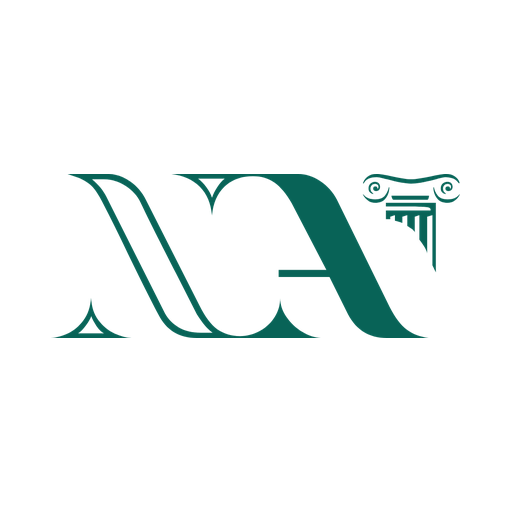
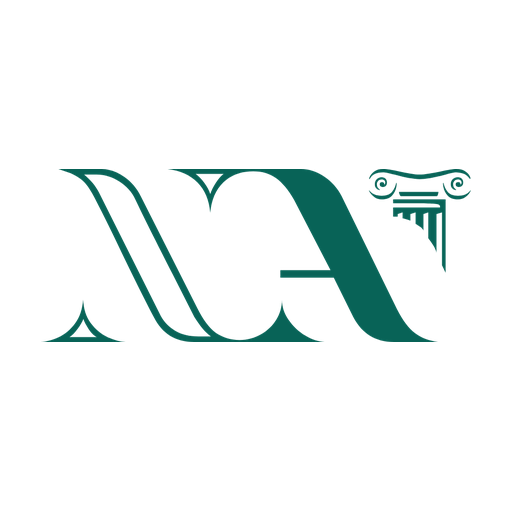
PWA: nome "Portal do Aluno - Nova Acrópole" e símbolo maior no ícone do celular

diff --git a/src/app/manifest.ts b/src/app/manifest.ts
@@ -9,7 +9,8 @@ export default function manifest(): MetadataRoute.Manifest {
   return {
     id: "/portal",
     name: "Portal do Aluno - Nova Acrópole",
-    short_name: "Portal NA",
+    // Nome sob o ícone na tela do celular (pedido do usuário 2026-10-22); o launcher pode cortar nomes longos.
+    short_name: "Portal do Aluno - Nova Acrópole",
     description: "Contribuição, carteira Fortuna, agenda e jornada na Nova Acrópole.",
     lang: "pt-BR",
     start_url: "/portal",
@@ -20,14 +21,14 @@ export default function manifest(): MetadataRoute.Manifest {
     theme_color: "#086357",
     icons: [
       // Símbolo oficial (logomarca sem o texto) sobre fundo branco — pedido do usuário 2026-10-21.
-      { src: "/pwa-icon-192.png", sizes: "192x192", type: "image/png", purpose: "any" },
-      { src: "/pwa-icon-512.png", sizes: "512x512", type: "image/png", purpose: "any" },
+      { src: "/pwa-icon-192.png?v=2", sizes: "192x192", type: "image/png", purpose: "any" },
+      { src: "/pwa-icon-512.png?v=2", sizes: "512x512", type: "image/png", purpose: "any" },
       // Versão com mais margem: o Android recorta o ícone em círculo/gota.
-      { src: "/pwa-icon-maskable-512.png", sizes: "512x512", type: "image/png", purpose: "maskable" },
+      { src: "/pwa-icon-maskable-512.png?v=2", sizes: "512x512", type: "image/png", purpose: "maskable" },
     ],
     shortcuts: [
-      { name: "Meus eventos", url: "/eventos", icons: [{ src: "/pwa-icon-192.png", sizes: "192x192" }] },
-      { name: "Área do Voluntário", url: "/voluntario", icons: [{ src: "/pwa-icon-192.png", sizes: "192x192" }] },
+      { name: "Meus eventos", url: "/eventos", icons: [{ src: "/pwa-icon-192.png?v=2", sizes: "192x192" }] },
+      { name: "Área do Voluntário", url: "/voluntario", icons: [{ src: "/pwa-icon-192.png?v=2", sizes: "192x192" }] },
     ],
   };
 }

diff --git a/src/app/layout.tsx b/src/app/layout.tsx
@@ -24,7 +24,7 @@ export const metadata: Metadata = {
   appleWebApp: {
     capable: true,
     statusBarStyle: "default",
-    title: "Portal NA",
+    title: "Portal do Aluno - Nova Acrópole",
   },
 };
 
